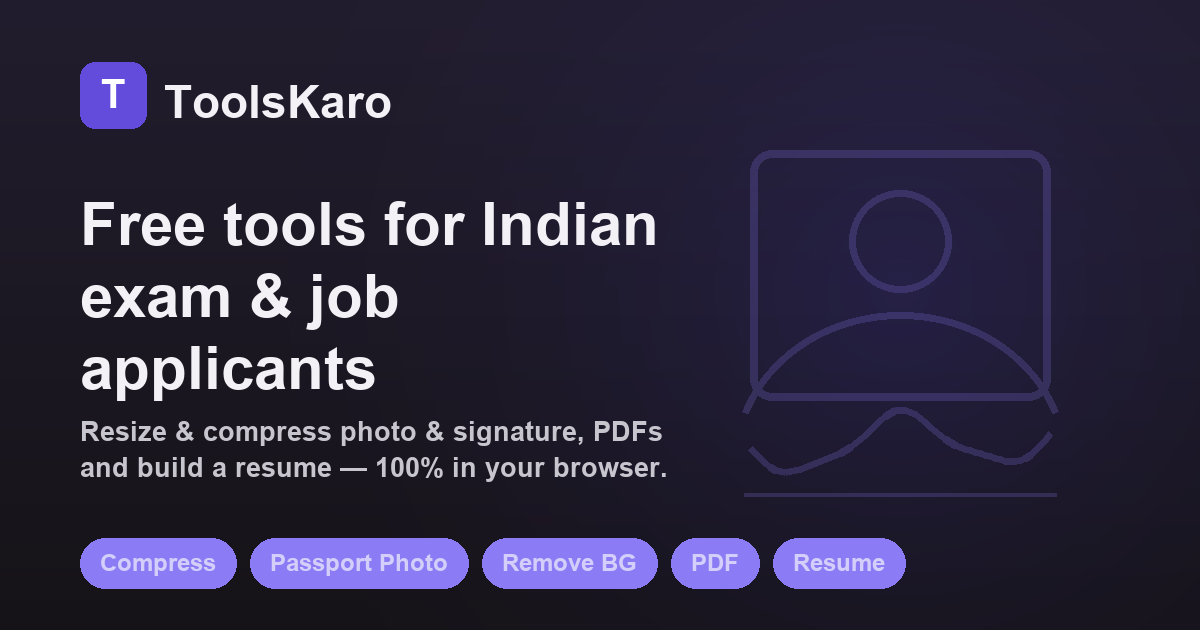
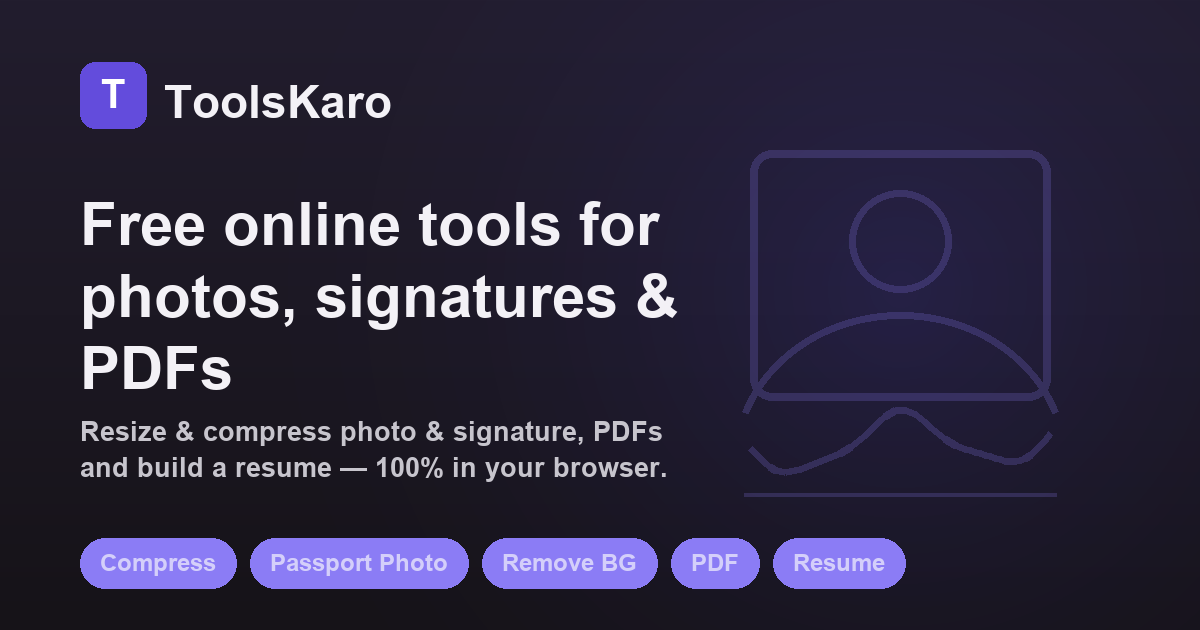
Globalise brand positioning: drop 'Indian' from hero, meta, OG, footer, About, llms, trust band
Keep India context only on the genuinely India-specific exam pages.

Changed region(s): [[0.0617, 0.4222, 0.5858, 0.6333], [0.185, 0.3016, 0.555, 0.3921]]

diff --git a/app/page.tsx b/app/page.tsx
@@ -53,11 +53,11 @@ export default function Home() {
       />
       <section className="hero">
         <h1>
-          Free tools for Indian <span className="grad">exam &amp; job applicants</span>
+          Free online tools for <span className="grad">photos, signatures &amp; PDFs</span>
         </h1>
         <p className="hero-sub">
-          Resize &amp; compress your photo and signature to the exact size every government form
-          needs — plus PDF, resume and biodata tools. Free, no login, and 100% in your browser.
+          Resize &amp; compress your photo and signature to the exact size any form needs, convert and
+          compress PDFs, build a resume and more — free, no login, and 100% in your browser.
         </p>
         <div className="hero-badges">
           <span className="badge">🔒 Files never uploaded</span>
@@ -103,17 +103,16 @@ export default function Home() {
         <div className="trust-item"><span className="trust-ic">🔒</span><div><b>Files never uploaded</b><p>Every tool runs in your browser — your photos and documents stay on your device.</p></div></div>
         <div className="trust-item"><span className="trust-ic">🆓</span><div><b>Free, no watermark</b><p>No sign-up, no watermark and no hidden limits — use every tool as much as you like.</p></div></div>
         <div className="trust-item"><span className="trust-ic">⚡</span><div><b>Fast &amp; works anywhere</b><p>Instant results on phone, tablet or desktop in any modern browser.</p></div></div>
-        <div className="trust-item"><span className="trust-ic">🇮🇳</span><div><b>Made for Indian forms</b><p>Built around SSC, UPSC, Bank and Railway photo, signature and document rules.</p></div></div>
+        <div className="trust-item"><span className="trust-ic">📄</span><div><b>For any form or document</b><p>Built for exam forms, job applications, visa documents and everyday files.</p></div></div>
       </section>
 
       <section className="card content" style={{ marginTop: 8 }}>
-        <h2 style={{ marginTop: 0 }}>Free online tools for Indian exam &amp; job applicants</h2>
+        <h2 style={{ marginTop: 0 }}>Free online tools for photos, signatures, PDFs &amp; documents</h2>
         <p>
-          ToolsKaro is a free collection of {total}+ online tools built for India&apos;s students,
-          job seekers and exam applicants. From resizing and compressing your photo and signature
-          for government forms to converting and merging PDFs, building a resume, and everyday
-          calculators — every tool works instantly in your web browser, with no sign-up and nothing
-          to install.
+          ToolsKaro is a free collection of {total}+ online tools for students, job seekers and anyone
+          handling forms and documents. From resizing and compressing your photo and signature for
+          application forms to converting and merging PDFs, building a resume, and everyday calculators —
+          every tool works instantly in your web browser, with no sign-up and nothing to install.
         </p>
 
         <h3>Made for government exam forms</h3>

diff --git a/app/about/page.tsx b/app/about/page.tsx
@@ -8,7 +8,7 @@ const AGENCY_LINKEDIN = "https://www.linkedin.com/company/admatrix-media";
 export const metadata: Metadata = {
   title: "About ToolsKaro & Our Team",
   description:
-    "About ToolsKaro — free, privacy-first online tools for Indian exam and job applicants. Our mission, how we keep exam requirements accurate, and the team behind it.",
+    "About ToolsKaro — free, privacy-first online tools for photos, signatures, PDFs and documents. Our mission, how we keep form requirements accurate, and the team behind it.",
   alternates: { canonical: "/about/" },
 };
 
@@ -19,7 +19,7 @@ export default function Page() {
     name: "About ToolsKaro",
     url: `${SITE}/about/`,
     description:
-      "About ToolsKaro — free, privacy-first browser tools built for Indian exam and job applicants, operated by AdMatrix Media Agency.",
+      "About ToolsKaro — free, privacy-first browser tools for photos, signatures, PDFs and documents, built and maintained by AdMatrix Media.",
     mainEntity: {
       "@type": "Organization",
       "@id": `${SITE}/#organization`,
@@ -53,20 +53,20 @@ export default function Page() {
       <h1>About ToolsKaro</h1>
       <div className="prose">
         <p>
-          ToolsKaro is a free collection of in-browser tools built for India&apos;s students, exam
-          aspirants and job applicants. Launched in 2026 and operated by{" "}
-          <strong>AdMatrix Media Agency</strong>, it brings together more than 35 utilities — image
+          ToolsKaro is a free collection of in-browser tools for students, job seekers and anyone
+          preparing photos, signatures and documents for forms and applications. Launched in 2026 and
+          built by <strong>AdMatrix Media</strong>, it brings together more than 35 utilities — image
           resize and compress, passport-photo and signature tools, a full PDF suite, resume and
           biodata makers, and everyday calculators — in one fast, private place.
         </p>
 
         <h2>Our mission</h2>
         <p>
-          We exist to make the everyday paperwork of Indian exam and job applications effortless.
-          Every SSC, UPSC, IBPS, SBI, RRB and State PSC form demands a photograph and signature in an
-          exact size and file weight, documents in specific formats, and more. We turn those fiddly,
-          rejection-prone requirements into one-click tools — completely free, with no account and no
-          watermark.
+          We exist to make the everyday paperwork of forms and applications effortless. From government
+          exams such as SSC, UPSC and IBPS to job, visa and document portals around the world, forms
+          demand a photograph and signature in an exact size and file weight, documents in specific
+          formats, and more. We turn those fiddly, rejection-prone requirements into one-click tools —
+          completely free, with no account and no watermark.
         </p>
 
         <h2>Privacy comes first</h2>

diff --git a/app/layout.tsx b/app/layout.tsx
@@ -19,11 +19,11 @@ const AGENCY_LINKEDIN = "https://www.linkedin.com/company/admatrix-media";
 
 export const metadata: Metadata = {
   title: {
-    default: "ToolsKaro — Free Photo, Signature & PDF Tools for Exams",
+    default: "ToolsKaro — Free Online Photo, Signature & PDF Tools",
     template: "%s",
   },
   description:
-    "Free tools for Indian exam & job applicants: resize & compress photo/signature to an exact KB, convert PDFs, build a resume — 100% in your browser, no upload.",
+    "Free online tools to resize & compress photos and signatures to an exact KB, convert and compress PDFs, build a resume and more — 100% in your browser, no upload, no sign-up.",
   metadataBase: new URL(SITE),
   alternates: { canonical: "/" },
   // Only type + siteName here, so each page auto-fills its own og:title/description from its metadata.
@@ -41,7 +41,7 @@ const orgJsonLd = {
       url: SITE,
       logo: { "@type": "ImageObject", url: `${SITE}/apple-icon`, width: 180, height: 180 },
       description:
-        "Free, privacy-first online tools for Indian exam and job applicants — image resize/compress, PDF tools, resume and biodata makers, and more.",
+        "Free, privacy-first online tools to resize and compress photos and signatures, convert and compress PDFs, build resumes and more — all in your browser.",
       sameAs: [TELEGRAM, WHATSAPP, LINKEDIN],
       founder: {
         "@type": "Person",
@@ -165,8 +165,9 @@ export default function RootLayout({ children }: { children: React.ReactNode }) 
             <div className="footer-col footer-brand">
               <Logo />
               <p>
-                Free, privacy-first online tools for Indian exam &amp; job applicants. Every tool
-                runs entirely in your browser — your files are never uploaded to any server.
+                Free, privacy-first online tools to resize &amp; compress photos and signatures,
+                convert PDFs, build resumes and more. Every tool runs entirely in your browser —
+                your files are never uploaded to any server.
               </p>
               <p className="footer-managed">
                 Crafted &amp; maintained by{" "}

diff --git a/app/story-poster/route.tsx b/app/story-poster/route.tsx
@@ -8,7 +8,7 @@ export function GET() {
       <div style={{ width: "100%", height: "100%", display: "flex", flexDirection: "column", justifyContent: "center", alignItems: "center", textAlign: "center", padding: 60, background: "linear-gradient(150deg,#2c2450,#17161b)", color: "#f3f1f6" }}>
         <div style={{ display: "flex", alignItems: "center", justifyContent: "center", width: 110, height: 110, borderRadius: 28, background: "linear-gradient(135deg,#4f46e5,#7c3aed)", color: "#fff", fontSize: 70, fontWeight: 800, marginBottom: 28 }}>T</div>
         <div style={{ fontSize: 56, fontWeight: 800, lineHeight: 1.1 }}>ToolsKaro</div>
-        <div style={{ fontSize: 30, marginTop: 18, color: "#c7c5cd" }}>Free tools for Indian exam &amp; job applicants</div>
+        <div style={{ fontSize: 30, marginTop: 18, color: "#c7c5cd" }}>Free tools for photos, signatures &amp; PDFs</div>
       </div>
     ),
     { width: 640, height: 853 }

diff --git a/app/image-tools/page.tsx b/app/image-tools/page.tsx
@@ -27,7 +27,7 @@ export default function Page() {
     >
       <h2 style={{ marginTop: 0 }}>Everything you need to prepare a photo & signature</h2>
       <p>
-        Indian exam and job portals are strict about images: your photograph and signature must be a
+        Exam and job application portals are strict about images: your photograph and signature must be a
         precise size in pixels and a specific file weight in KB, or the form is rejected. This image
         toolkit covers the whole job — set exact dimensions with the{" "}
         <Link href="/image-resizer/">Image Resizer</Link>, hit a KB limit with the{" "}

diff --git a/app/[slug]/opengraph-image.tsx b/app/[slug]/opengraph-image.tsx
@@ -18,7 +18,7 @@ function info(slug: string): { label: string; title: string } {
   if (m) return { label: "PDF COMPRESSOR", title: `Compress PDF to ${m[1]} MB` };
   const exam = EXAMS.find((e) => e.slug === slug);
   if (exam) return { label: "PHOTO & SIGNATURE", title: `${exam.name} photo & signature size` };
-  return { label: "TOOLSKARO", title: "Free tools for Indian exam & job applicants" };
+  return { label: "TOOLSKARO", title: "Free tools for photos, signatures & PDFs" };
 }
 
 export default async function Image({ params }: { params: Promise<{ slug: string }> }) {

diff --git a/scripts/gen_story_art.py b/scripts/gen_story_art.py
@@ -191,7 +191,7 @@ def make_og():
     d.text((pad + 84, 76), "ToolsKaro", font=font(46), fill=INK)
     hf = font(60)
     ty = 190
-    for ln in wrap(d, "Free tools for Indian exam & job applicants", hf, 600):
+    for ln in wrap(d, "Free online tools for photos, signatures & PDFs", hf, 600):
         d.text((pad, ty), ln, font=hf, fill=INK); ty += 72
     d.text((pad, ty + 10), "Resize & compress photo & signature, PDFs", font=font(27), fill=MUTED)
     d.text((pad, ty + 46), "and build a resume — 100% in your browser.", font=font(27), fill=MUTED)
